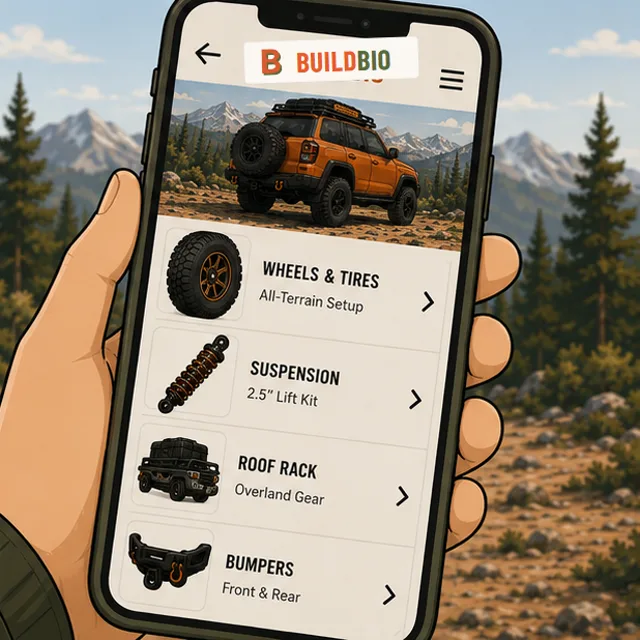
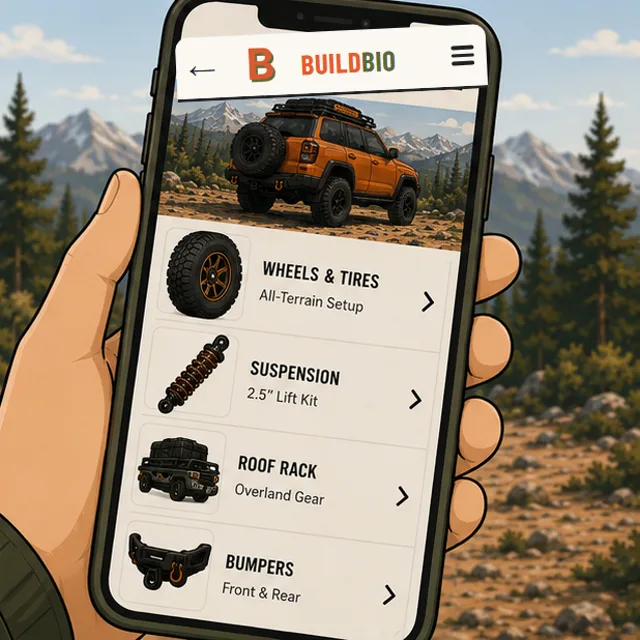
pages(index): tutorial panels 3-4 — native full-width headers (double-B, wordmark, drawn hamburger/back arrow) replacing taped-over patches (founder)
Claude-Session: https://claude.ai/code/session_01CMAdjZM9q42eFNJNvVGHwZ

Changed region(s): [[0.25, 0.0312, 0.7812, 0.1875]]

diff --git a/assets/tutorial/compose.html b/assets/tutorial/compose.html
@@ -1,0 +1,45 @@
+<!doctype html><meta charset="utf-8">
+<style>
+  body{margin:0;background:#222}
+  .panel{position:relative;width:618px;height:618px;overflow:hidden}
+  .panel img.bg{position:absolute;inset:0;width:100%;height:100%}
+  .stk{position:absolute;border-radius:50%;box-shadow:0 0 10px 3px rgba(255,240,200,.85)}
+  .patch{position:absolute;background:#faf7f2;display:flex;align-items:center;gap:6px;justify-content:flex-start}
+  .patch .bmark{height:170%;width:auto;margin-left:-8px;margin-right:-16px}
+  .patch .wm{font-family:'Barlow Condensed',sans-serif;font-weight:700;letter-spacing:.5px}
+  .patch .wm .o{color:#E85D2C}.patch .wm .g{color:#5C6B3A}
+  .hdr{position:absolute;background:#faf7f2;display:flex;align-items:center;padding:0 12px;gap:8px;border-bottom:3px solid #232323;box-sizing:border-box}
+  .hdr .bmark{height:150%;width:auto;margin:0 -14px 0 -10px}
+  .hdr .wm{font-family:'Barlow Condensed',sans-serif;font-weight:700;letter-spacing:.5px}
+  .hdr .wm .o{color:#E85D2C}.hdr .wm .g{color:#5C6B3A}
+  .hdr .ham{margin-left:auto;display:flex;flex-direction:column;gap:4px}
+  .hdr .ham i{display:block;width:22px;height:3.5px;background:#232323;border-radius:2px}
+  .hdr .arr{font-family:'Barlow Condensed',sans-serif;font-weight:700;font-size:26px;color:#232323;margin-right:2px}
+</style>
+<link href="https://fonts.googleapis.com/css2?family=Barlow+Condensed:wght@700&display=swap" rel="stylesheet">
+<div class="panel" id="p1">
+  <img class="bg" src="p1_raw.png">
+  <img class="stk" src="../qr/qr-demo-master-v6-final.webp" style="left:301px;top:274px;width:48px;height:48px">
+</div>
+<div class="panel" id="p2">
+  <img class="bg" src="p2_raw.png">
+  <img class="stk" src="../qr/qr-demo-master-v6-final.webp" style="left:166px;top:242px;width:53px;height:53px">
+  <img class="stk" src="../qr/qr-demo-master-v6-final.webp" style="left:353px;top:240px;width:60px;height:60px;box-shadow:0 0 14px 4px rgba(255,220,160,.9)">
+</div>
+<div class="panel" id="p3">
+  <img class="bg" src="p3_raw.png">
+  <div class="hdr" style="left:233px;top:57px;width:238px;height:54px;border-radius:10px 10px 0 0">
+    <img class="bmark" src="../../images/bg/bb-logo.png">
+    <div class="wm" style="font-size:31px"><span class="o">BUILD</span><span class="g">BIO</span></div>
+    <div class="ham"><i></i><i></i><i></i></div>
+  </div>
+</div>
+<div class="panel" id="p4">
+  <img class="bg" src="p4_raw.png">
+  <div class="hdr" style="left:170px;top:30px;width:300px;height:62px;transform:rotate(-2.7deg);border-radius:12px 12px 0 0">
+    <div class="arr">&#8592;</div>
+    <img class="bmark" src="../../images/bg/bb-logo.png">
+    <div class="wm" style="font-size:27px"><span class="o">BUILD</span><span class="g">BIO</span></div>
+    <div class="ham"><i></i><i></i><i></i></div>
+  </div>
+</div>
